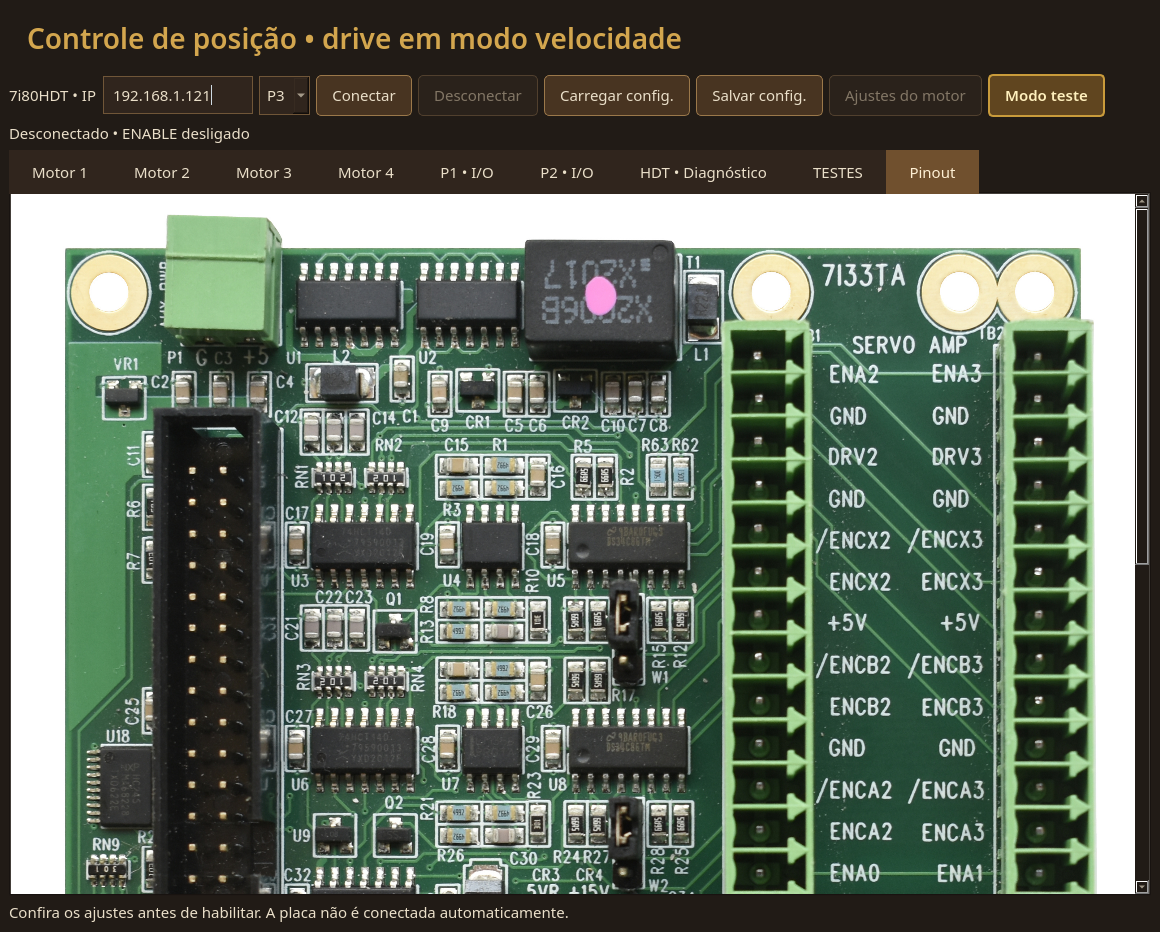
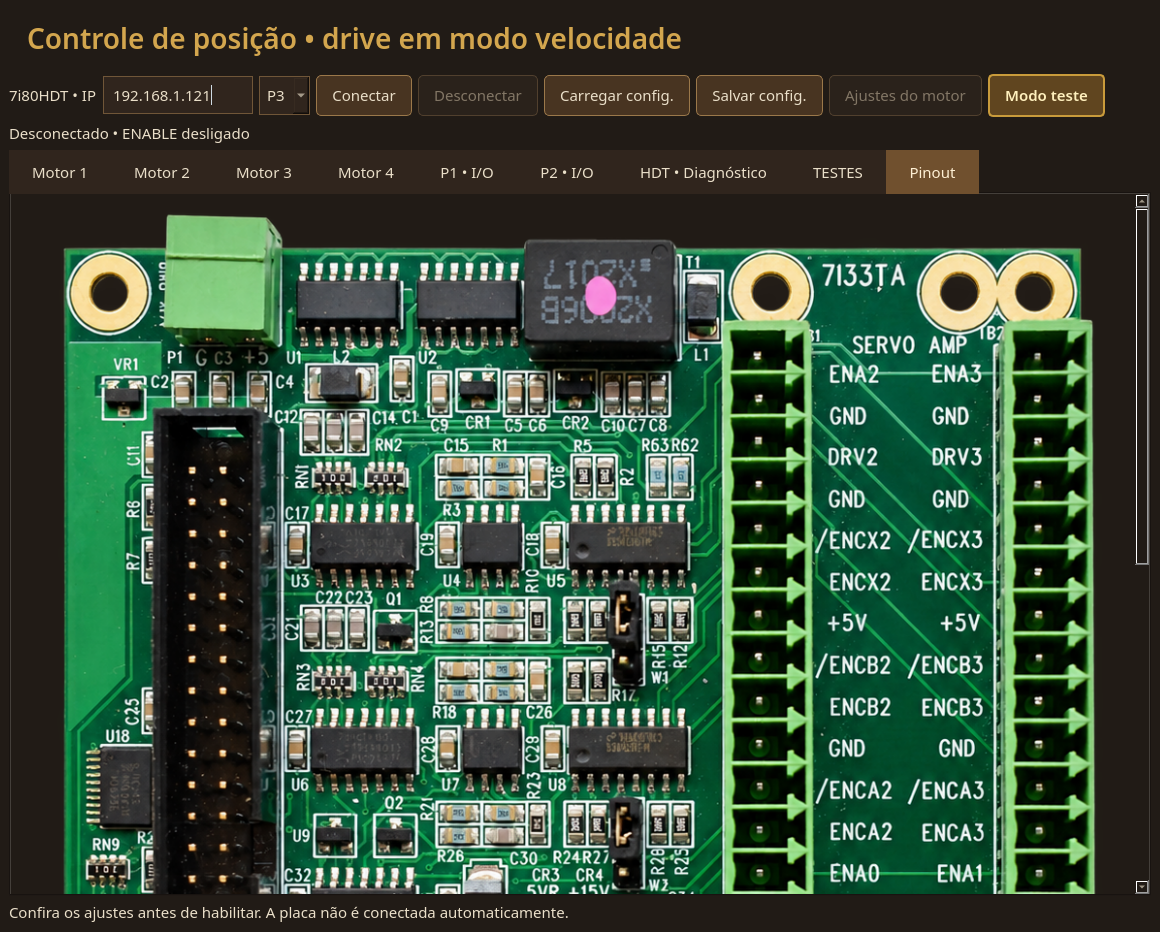
Make Pinout background transparent and record enabled Dell Speed Shift

diff --git a/app/pinoutimage.cpp b/app/pinoutimage.cpp
@@ -4,7 +4,7 @@
 #include <algorithm>
 
 PinoutImage::PinoutImage(QWidget *parent)
-    : QWidget(parent), m_photo(":/pinout/7i33ta-pinout.jpg")
+    : QWidget(parent), m_photo(":/pinout/7i33ta-pinout.png")
 {
     setSizePolicy(QSizePolicy::Expanding, QSizePolicy::Preferred);
 }

diff --git a/CONTEXTO_PROJETO.md b/CONTEXTO_PROJETO.md
@@ -150,3 +150,15 @@ Atalho novo Iniciar T3D v0.2.2.desktop criado; anteriores preservados.
   máximos ON/OFF 2,026775/2,048945 ms, mas histórico da sessão inclui intervalo
   máximo 8,006786 ms, duas execuções excedidas e seis slots pulados.
 - Operador vai reiniciar e conferir BIOS/HWP, depois medir 0.2.5.
+
+## Transparência e leitura direta da BIOS Dell
+
+- Usuário pediu fundo transparente na aba Pinout. JPG inicial preservado;
+  app usa agora assets/7i33ta-pinout.png com alpha, embutido no recurso Qt.
+- Dell Command Configure não estava instalado; consulta direta pelo driver Dell
+  dell-wmi-sysman confirmou SpeedShift Disabled, Speedstep Enabled, TurboMode
+  Enabled, CStatesCtrl Enabled. A ausência de HWP no kernel era coerente.
+- Usuário autorizou habilitar somente Speed Shift. Gravação concluída e leitura
+  de volta confirmou Enabled; pending_reboot=1. SpeedStep/Turbo/C-states não
+  foram alterados. Boot já preparado com intel_pstate=active.
+  Após reboot conferir HWP, driver efetivo e então medir 0.2.5.

diff --git a/medicoes/2026-10-11-bios-speedshift.md b/medicoes/2026-10-11-bios-speedshift.md
@@ -1,0 +1,13 @@
+# BIOS Dell — Speed Shift
+
+OptiPlex SFF 7010, BIOS 1.38.0. Dell Command Configure não instalado.
+Leitura diretamente pela interface de firmware Dell do kernel:
+`/sys/class/firmware-attributes/dell-wmi-sysman/attributes/`.
+
+Consulta inicial: SpeedShift Disabled; Speedstep Enabled; TurboMode Enabled;
+CStatesCtrl Enabled; pending_reboot 0.
+
+Após autorização explícita do operador, escrito somente SpeedShift=Enabled.
+Leitura de volta: SpeedShift Enabled; pending_reboot 1.
+Os demais parâmetros não foram gravados. Nenhum reboot automático foi executado.
+Boot preparado com intel_pstate=active, a ser validado após reiniciar.

diff --git a/CHANGELOG.md b/CHANGELOG.md
@@ -2,7 +2,7 @@
 
 ## 0.2.5 — otimização nativa
 
-- Aba Pinout com a fotografia da 7i33TA convertida para JPG, centralizada horizontalmente.
+- Aba Pinout com a fotografia da 7i33TA centralizada horizontalmente; fundo externo transparente em PNG. A conversão JPG inicial também foi preservada.
 
 - Versão incrementada antes das otimizações; período de 2 ms mantido.
 - Referência física 0.2.4 salva antes das mudanças.

diff --git a/README.md b/README.md
@@ -448,5 +448,5 @@ Detalhes e limitações em [OTIMIZACAO_0.2.5.md](OTIMIZACAO_0.2.5.md).
 ## Pinout
 
 A aba **Pinout** exibe a fotografia da 7i33TA, centralizada horizontalmente,
-com rolagem vertical para consultar toda a placa. A foto JPG está incorporada
+com rolagem vertical para consultar toda a placa. A foto PNG com fundo transparente está incorporada
 ao executável e não depende de um arquivo externo durante o uso.

diff --git a/screenshots/README.md b/screenshots/README.md
@@ -34,4 +34,4 @@ movimento real dos motores.
 - [Interface 0.2.5](interface-v0.2.5.png): aceleração e desaceleração independentes,
   padrões 350/600 RPM/s e JOG 1000 RPM; captura sem conexão à placa.
 
-- [Pinout 0.2.5](pinout-v0.2.5.png): foto JPG da 7i33TA na nova aba, sem conexão à placa.
+- [Pinout 0.2.5](pinout-v0.2.5.png): foto da 7i33TA com fundo transparente na nova aba, sem conexão à placa.
